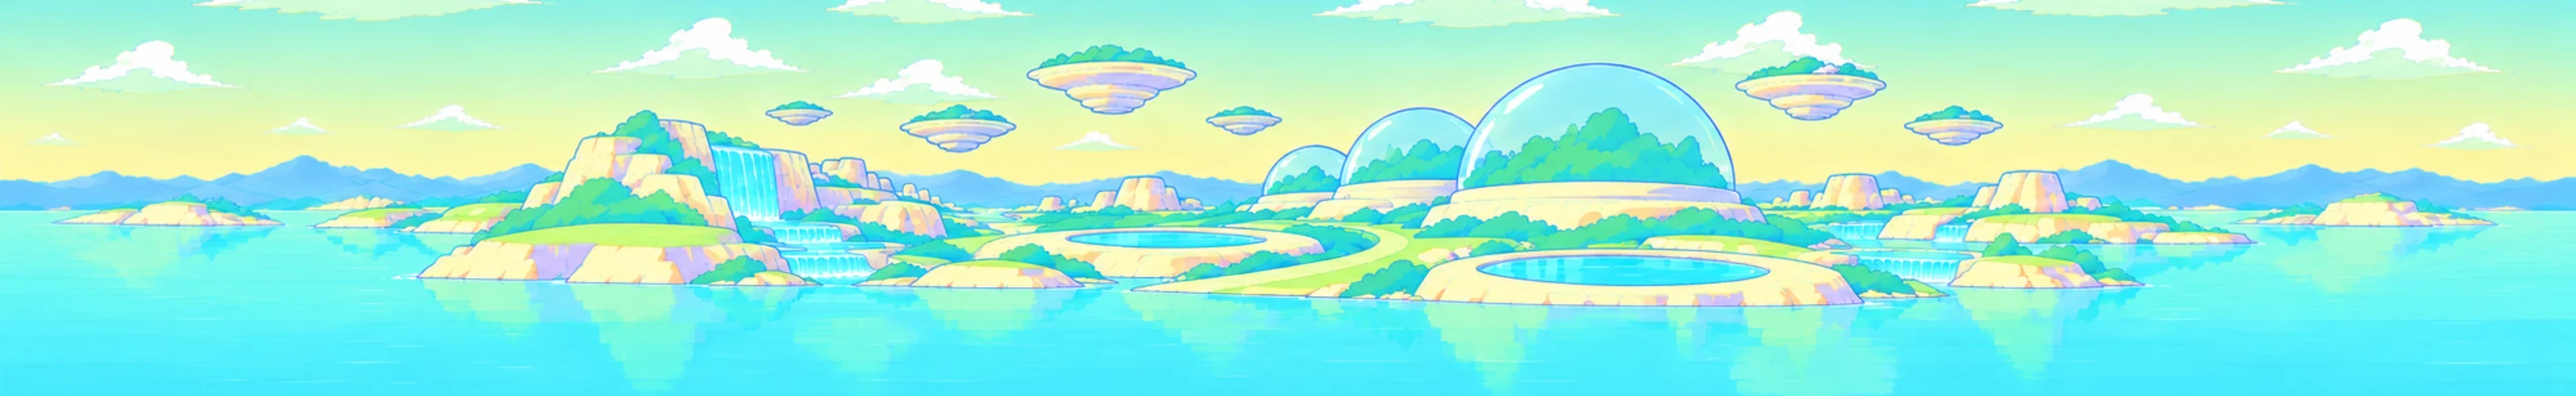
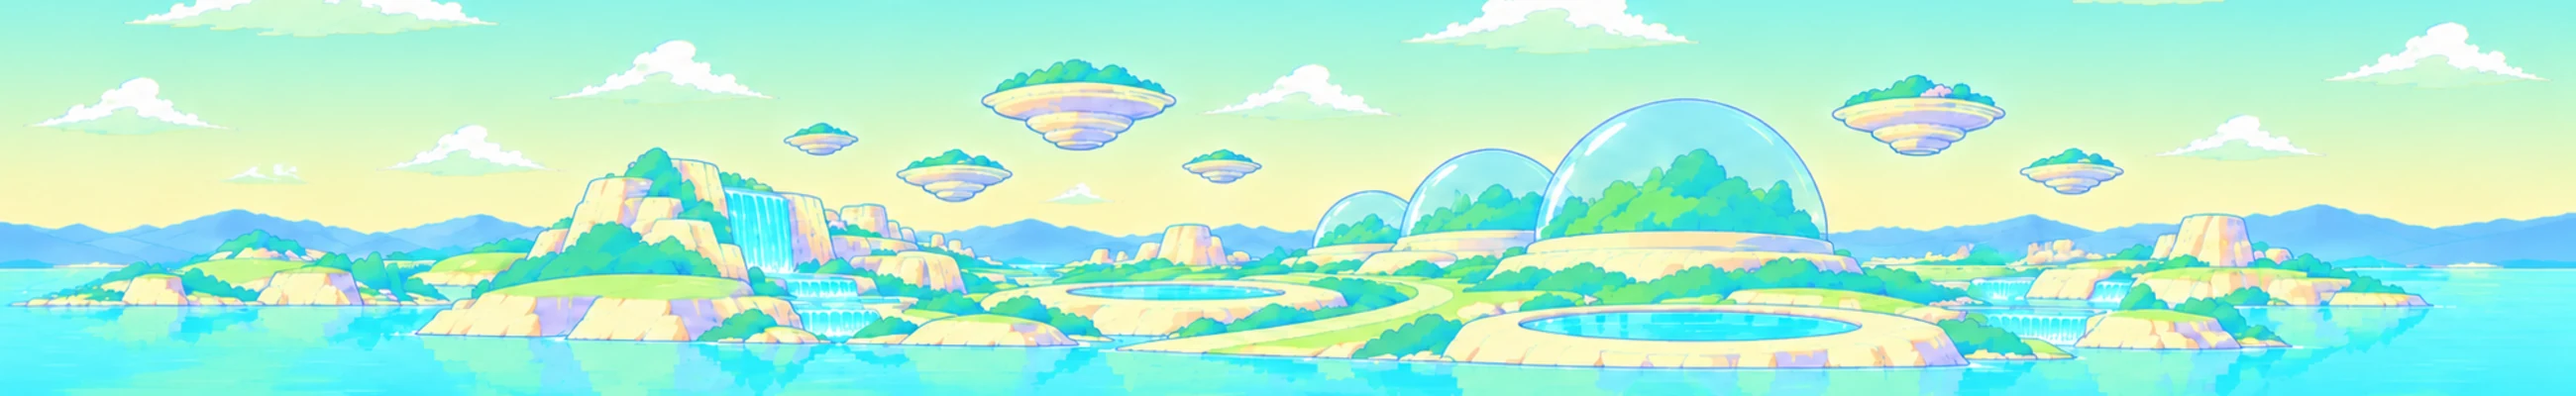
LOCAL: recruit hero = sky-wide 2600x400 art; remove the temporary zoom shift

diff --git a/site/company.html b/site/company.html
@@ -19,7 +19,7 @@
 <link rel="preconnect" href="https://fonts.googleapis.com">
 <link rel="preconnect" href="https://fonts.gstatic.com" crossorigin>
 <link rel="stylesheet" href="https://fonts.googleapis.com/css2?family=Noto+Sans+JP:wght@400;500&amp;family=Noto+Serif+JP:wght@500;600&amp;display=swap">
-<link rel="stylesheet" href="styles.css?v=1792828763">
+<link rel="stylesheet" href="styles.css?v=1792829221">
 <script>document.documentElement.classList.add('js')</script>
 
 </head>
@@ -33,7 +33,7 @@
 </div>
 </header>
 <section class="page-hero">
-<div class="hero-bg"><img src="images/hero65_company.webp?v=16" alt="" width="2600" height="400" style="object-position:50% 50%;--mpos:60% 50%"></div>
+<div class="hero-bg"><img src="images/hero65_company.webp?v=17" alt="" width="2600" height="400" style="object-position:50% 50%;--mpos:60% 50%"></div>
 <div class="container" data-en="COMPANY"><p class="eyebrow">COMPANY</p><h1>法人概要</h1><nav class="breadcrumb" aria-label="パンくず"><a href="index.html">TOP</a> &gt; COMPANY</nav></div>
 </section>
 <main id="main"><section class="section"><div class="container split"><div class="split-head"><div class="section-head reveal"><p class="eyebrow">ABOUT US</p><h2 class="section-title">私たちについて</h2></div></div><div class="about-grid"><article class="about-card reveal"><h3>CELLACTは、再生医療の可能性を追求し、安全で質の高い医療をお届けします。</h3><p>CELLACTは、幹細胞療法や免疫細胞療法などの再生医療に取り組んでいます。日本では、2014年に再生医療等安全性確保法が施行され、厳格な規制のもとでの治療が求められています。私たちはこの法律を遵守し、安全かつ高度な再生医療の実践に努めています。完全予約制のプライベートな環境で、国内外の患者様一人ひとりに向き合っています。</p></article><article class="about-card reveal"><h3>細胞の品質と安全管理を大切に、一人ひとりに最適な再生医療を。</h3><p>再生医療において、治療に用いる細胞の品質と、それを支える技術の信頼性は極めて重要です。徹底した品質管理のもとで培養された細胞を用いることで、患者様一人ひとりに安心して治療を受けていただける環境を提供しています。再生医療に精通した医師が協力しながら診療を行い、患者様それぞれに最適な治療プランを設計します。</p></article></div></div></section>
@@ -74,6 +74,6 @@
 <div class="copy"><span>&copy; 2026 一般社団法人 CELLACT. All rights reserved.</span></div>
 </div>
 </footer>
-<script src="script.js?v=1792828763" defer></script>
+<script src="script.js?v=1792829221" defer></script>
 </body>
 </html>

diff --git a/site/news-archive.html b/site/news-archive.html
@@ -19,7 +19,7 @@
 <link rel="preconnect" href="https://fonts.googleapis.com">
 <link rel="preconnect" href="https://fonts.gstatic.com" crossorigin>
 <link rel="stylesheet" href="https://fonts.googleapis.com/css2?family=Noto+Sans+JP:wght@400;500&amp;family=Noto+Serif+JP:wght@500;600&amp;display=swap">
-<link rel="stylesheet" href="styles.css?v=1792828763">
+<link rel="stylesheet" href="styles.css?v=1792829221">
 <script>document.documentElement.classList.add('js')</script>
 
 </head>
@@ -33,7 +33,7 @@
 </div>
 </header>
 <section class="page-hero">
-<div class="hero-bg"><img src="images/hero65_news.webp?v=16" alt="" width="2600" height="400" style="object-position:50% 50%;--mpos:70% 50%"></div>
+<div class="hero-bg"><img src="images/hero65_news.webp?v=17" alt="" width="2600" height="400" style="object-position:50% 50%;--mpos:70% 50%"></div>
 <div class="container" data-en="NEWS"><p class="eyebrow">NEWS</p><h1>お知らせ</h1><nav class="breadcrumb" aria-label="パンくず"><a href="index.html">TOP</a> &gt; NEWS</nav></div>
 </section>
 <main id="main"><section class="section"><div class="container-narrow"><div class="section-head reveal"><p class="eyebrow">NEWS ARCHIVE</p><h2 class="section-title">お知らせ一覧</h2></div><ul class="news-list reveal"><li><a href="news-20270110-recruit.html"><time datetime="2027-01-10">2027.01.10</time><span class="tag warm">採用情報</span><span class="ttl">医療スタッフ募集のお知らせ</span><span class="chev" aria-hidden="true">→</span></a></li><li><a href="news-20270101-rename.html"><time datetime="2027-01-01">2027.01.01</time><span class="tag">クリニック情報</span><span class="ttl">N2クリニック銀座本院は「セルアクト クリニック銀座（CELLACT CLINIC GINZA）」へ名称変更しました。</span><span class="chev" aria-hidden="true">→</span></a></li><li><a href="news-20270101-renewal.html"><time datetime="2027-01-01">2027.01.01</time><span class="tag">お知らせ</span><span class="ttl">公式サイトをリニューアルしました。</span><span class="chev" aria-hidden="true">→</span></a></li></ul></div></section></main><footer class="site-footer">
@@ -49,6 +49,6 @@
 <div class="copy"><span>&copy; 2026 一般社団法人 CELLACT. All rights reserved.</span></div>
 </div>
 </footer>
-<script src="script.js?v=1792828763" defer></script>
+<script src="script.js?v=1792829221" defer></script>
 </body>
 </html>

diff --git a/site/business.html b/site/business.html
@@ -19,7 +19,7 @@
 <link rel="preconnect" href="https://fonts.googleapis.com">
 <link rel="preconnect" href="https://fonts.gstatic.com" crossorigin>
 <link rel="stylesheet" href="https://fonts.googleapis.com/css2?family=Noto+Sans+JP:wght@400;500&amp;family=Noto+Serif+JP:wght@500;600&amp;display=swap">
-<link rel="stylesheet" href="styles.css?v=1792828763">
+<link rel="stylesheet" href="styles.css?v=1792829221">
 <script>document.documentElement.classList.add('js')</script>
 
 </head>
@@ -33,7 +33,7 @@
 </div>
 </header>
 <section class="page-hero">
-<div class="hero-bg"><img src="images/hero65_business.webp?v=16" alt="" width="2600" height="400" style="object-position:50% 50%;--mpos:55% 50%"></div>
+<div class="hero-bg"><img src="images/hero65_business.webp?v=17" alt="" width="2600" height="400" style="object-position:50% 50%;--mpos:55% 50%"></div>
 <div class="container" data-en="BUSINESS"><p class="eyebrow">BUSINESS</p><h1>事業内容</h1><nav class="breadcrumb" aria-label="パンくず"><a href="index.html">TOP</a> &gt; BUSINESS</nav></div>
 </section>
 <main id="main"><section class="section"><div class="container"><div class="section-head reveal"><p class="eyebrow">FIELDS</p><h2 class="section-title">取り組んでいる再生医療</h2><p class="lead">細胞の力を活かした、3つの領域で医療を提供しています。</p></div><article class="service-detail reveal" id="stem"><div class="sd-media"><img src="images/cellact_stem.webp?v=4" alt="" loading="lazy" width="1500" height="857" data-pan></div>
@@ -70,6 +70,6 @@
 <div class="copy"><span>&copy; 2026 一般社団法人 CELLACT. All rights reserved.</span></div>
 </div>
 </footer>
-<script src="script.js?v=1792828763" defer></script>
+<script src="script.js?v=1792829221" defer></script>
 </body>
 </html>

diff --git a/site/recruit.html b/site/recruit.html
@@ -19,7 +19,7 @@
 <link rel="preconnect" href="https://fonts.googleapis.com">
 <link rel="preconnect" href="https://fonts.gstatic.com" crossorigin>
 <link rel="stylesheet" href="https://fonts.googleapis.com/css2?family=Noto+Sans+JP:wght@400;500&amp;family=Noto+Serif+JP:wght@500;600&amp;display=swap">
-<link rel="stylesheet" href="styles.css?v=1792828763">
+<link rel="stylesheet" href="styles.css?v=1792829221">
 <script>document.documentElement.classList.add('js')</script>
 
 </head>
@@ -33,7 +33,7 @@
 </div>
 </header>
 <section class="page-hero">
-<div class="hero-bg"><img src="images/hero65_recruit.webp?v=16" alt="" width="2600" height="400" style="object-position:50% 6%;--mpos:45% 50%;--zoom:1.18"></div>
+<div class="hero-bg"><img src="images/hero65_recruit.webp?v=17" alt="" width="2600" height="400" style="object-position:50% 50%;--mpos:40% 50%"></div>
 <div class="container" data-en="RECRUIT"><p class="eyebrow">RECRUIT</p><h1>採用情報</h1><nav class="breadcrumb" aria-label="パンくず"><a href="index.html">TOP</a> &gt; RECRUIT</nav></div>
 </section>
 <main id="main"><section class="section"><div class="container split"><div class="split-head"><div class="section-head reveal"><p class="eyebrow">MESSAGE</p><h2 class="section-title">私たちの仕事は未来を再生すること。</h2></div></div>
@@ -55,6 +55,6 @@
 <div class="copy"><span>&copy; 2026 一般社団法人 CELLACT. All rights reserved.</span></div>
 </div>
 </footer>
-<script src="script.js?v=1792828763" defer></script>
+<script src="script.js?v=1792829221" defer></script>
 </body>
 </html>

diff --git a/site/news-20270101-rename.html b/site/news-20270101-rename.html
@@ -19,7 +19,7 @@
 <link rel="preconnect" href="https://fonts.googleapis.com">
 <link rel="preconnect" href="https://fonts.gstatic.com" crossorigin>
 <link rel="stylesheet" href="https://fonts.googleapis.com/css2?family=Noto+Sans+JP:wght@400;500&amp;family=Noto+Serif+JP:wght@500;600&amp;display=swap">
-<link rel="stylesheet" href="styles.css?v=1792828763">
+<link rel="stylesheet" href="styles.css?v=1792829221">
 <script>document.documentElement.classList.add('js')</script>
 
 </head>
@@ -33,7 +33,7 @@
 </div>
 </header>
 <section class="page-hero">
-<div class="hero-bg"><img src="images/hero65_news.webp?v=16" alt="" width="2600" height="400" style="object-position:50% 50%;--mpos:70% 50%"></div>
+<div class="hero-bg"><img src="images/hero65_news.webp?v=17" alt="" width="2600" height="400" style="object-position:50% 50%;--mpos:70% 50%"></div>
 <div class="container" data-en="NEWS"><p class="eyebrow">NEWS</p><h1>お知らせ</h1><nav class="breadcrumb" aria-label="パンくず"><a href="index.html">TOP</a> &gt; <a href="news-archive.html">NEWS</a> &gt; N2クリニック銀座本院は「セルアクト クリニック銀座（CELLACT CLINIC GINZA）」へ名称変更しました。</nav></div>
 </section>
 <main id="main"><section class="section"><div class="container-narrow"><article class="article reveal">
@@ -58,6 +58,6 @@
 <div class="copy"><span>&copy; 2026 一般社団法人 CELLACT. All rights reserved.</span></div>
 </div>
 </footer>
-<script src="script.js?v=1792828763" defer></script>
+<script src="script.js?v=1792829221" defer></script>
 </body>
 </html>

diff --git a/site/news-20270101-renewal.html b/site/news-20270101-renewal.html
@@ -19,7 +19,7 @@
 <link rel="preconnect" href="https://fonts.googleapis.com">
 <link rel="preconnect" href="https://fonts.gstatic.com" crossorigin>
 <link rel="stylesheet" href="https://fonts.googleapis.com/css2?family=Noto+Sans+JP:wght@400;500&amp;family=Noto+Serif+JP:wght@500;600&amp;display=swap">
-<link rel="stylesheet" href="styles.css?v=1792828763">
+<link rel="stylesheet" href="styles.css?v=1792829221">
 <script>document.documentElement.classList.add('js')</script>
 
 </head>
@@ -33,7 +33,7 @@
 </div>
 </header>
 <section class="page-hero">
-<div class="hero-bg"><img src="images/hero65_news.webp?v=16" alt="" width="2600" height="400" style="object-position:50% 50%;--mpos:70% 50%"></div>
+<div class="hero-bg"><img src="images/hero65_news.webp?v=17" alt="" width="2600" height="400" style="object-position:50% 50%;--mpos:70% 50%"></div>
 <div class="container" data-en="NEWS"><p class="eyebrow">NEWS</p><h1>お知らせ</h1><nav class="breadcrumb" aria-label="パンくず"><a href="index.html">TOP</a> &gt; <a href="news-archive.html">NEWS</a> &gt; 公式サイトをリニューアルしました。</nav></div>
 </section>
 <main id="main"><section class="section"><div class="container-narrow"><article class="article reveal">
@@ -57,6 +57,6 @@
 <div class="copy"><span>&copy; 2026 一般社団法人 CELLACT. All rights reserved.</span></div>
 </div>
 </footer>
-<script src="script.js?v=1792828763" defer></script>
+<script src="script.js?v=1792829221" defer></script>
 </body>
 </html>

diff --git a/site/news-20270110-recruit.html b/site/news-20270110-recruit.html
@@ -19,7 +19,7 @@
 <link rel="preconnect" href="https://fonts.googleapis.com">
 <link rel="preconnect" href="https://fonts.gstatic.com" crossorigin>
 <link rel="stylesheet" href="https://fonts.googleapis.com/css2?family=Noto+Sans+JP:wght@400;500&amp;family=Noto+Serif+JP:wght@500;600&amp;display=swap">
-<link rel="stylesheet" href="styles.css?v=1792828763">
+<link rel="stylesheet" href="styles.css?v=1792829221">
 <script>document.documentElement.classList.add('js')</script>
 
 </head>
@@ -33,7 +33,7 @@
 </div>
 </header>
 <section class="page-hero">
-<div class="hero-bg"><img src="images/hero65_news.webp?v=16" alt="" width="2600" height="400" style="object-position:50% 50%;--mpos:70% 50%"></div>
+<div class="hero-bg"><img src="images/hero65_news.webp?v=17" alt="" width="2600" height="400" style="object-position:50% 50%;--mpos:70% 50%"></div>
 <div class="container" data-en="NEWS"><p class="eyebrow">NEWS</p><h1>お知らせ</h1><nav class="breadcrumb" aria-label="パンくず"><a href="index.html">TOP</a> &gt; <a href="news-archive.html">NEWS</a> &gt; 医療スタッフ募集のお知らせ</nav></div>
 </section>
 <main id="main"><section class="section"><div class="container-narrow"><article class="article reveal">
@@ -57,6 +57,6 @@
 <div class="copy"><span>&copy; 2026 一般社団法人 CELLACT. All rights reserved.</span></div>
 </div>
 </footer>
-<script src="script.js?v=1792828763" defer></script>
+<script src="script.js?v=1792829221" defer></script>
 </body>
 </html>

diff --git a/site/contact_thanks.html b/site/contact_thanks.html
@@ -19,7 +19,7 @@
 <link rel="preconnect" href="https://fonts.googleapis.com">
 <link rel="preconnect" href="https://fonts.gstatic.com" crossorigin>
 <link rel="stylesheet" href="https://fonts.googleapis.com/css2?family=Noto+Sans+JP:wght@400;500&amp;family=Noto+Serif+JP:wght@500;600&amp;display=swap">
-<link rel="stylesheet" href="styles.css?v=1792828763">
+<link rel="stylesheet" href="styles.css?v=1792829221">
 <script>document.documentElement.classList.add('js')</script>
 
 </head>
@@ -33,7 +33,7 @@
 </div>
 </header>
 <section class="page-hero">
-<div class="hero-bg"><img src="images/hero65_contact.webp?v=16" alt="" width="2600" height="400" style="object-position:50% 50%;--mpos:52% 50%"></div>
+<div class="hero-bg"><img src="images/hero65_contact.webp?v=17" alt="" width="2600" height="400" style="object-position:50% 50%;--mpos:52% 50%"></div>
 <div class="container" data-en="CONTACT"><p class="eyebrow">CONTACT</p><h1>お問い合わせ</h1><nav class="breadcrumb" aria-label="パンくず"><a href="index.html">TOP</a> &gt; <a href="contact.php">CONTACT</a> &gt; 完了</nav></div>
 </section>
 <main id="main"><section class="section tint"><div class="container-narrow">
@@ -54,6 +54,6 @@
 <div class="copy"><span>&copy; 2026 一般社団法人 CELLACT. All rights reserved.</span></div>
 </div>
 </footer>
-<script src="script.js?v=1792828763" defer></script>
+<script src="script.js?v=1792829221" defer></script>
 </body>
 </html>

diff --git a/site/privacy.html b/site/privacy.html
@@ -19,7 +19,7 @@
 <link rel="preconnect" href="https://fonts.googleapis.com">
 <link rel="preconnect" href="https://fonts.gstatic.com" crossorigin>
 <link rel="stylesheet" href="https://fonts.googleapis.com/css2?family=Noto+Sans+JP:wght@400;500&amp;family=Noto+Serif+JP:wght@500;600&amp;display=swap">
-<link rel="stylesheet" href="styles.css?v=1792828763">
+<link rel="stylesheet" href="styles.css?v=1792829221">
 <script>document.documentElement.classList.add('js')</script>
 
 </head>
@@ -33,7 +33,7 @@
 </div>
 </header>
 <section class="page-hero">
-<div class="hero-bg"><img src="images/hero65_privacy.webp?v=16" alt="" width="2600" height="400" style="object-position:50% 50%;--mpos:40% 50%"></div>
+<div class="hero-bg"><img src="images/hero65_privacy.webp?v=17" alt="" width="2600" height="400" style="object-position:50% 50%;--mpos:40% 50%"></div>
 <div class="container" data-en="PRIVACY"><p class="eyebrow">PRIVACY</p><h1>プライバシーポリシー</h1><nav class="breadcrumb" aria-label="パンくず"><a href="index.html">TOP</a> &gt; プライバシーポリシー</nav></div>
 </section>
 <main id="main"><section class="section"><div class="container-narrow prose">
@@ -71,6 +71,6 @@
 <div class="copy"><span>&copy; 2026 一般社団法人 CELLACT. All rights reserved.</span></div>
 </div>
 </footer>
-<script src="script.js?v=1792828763" defer></script>
+<script src="script.js?v=1792829221" defer></script>
 </body>
 </html>

diff --git a/site/index.html b/site/index.html
@@ -19,7 +19,7 @@
 <link rel="preconnect" href="https://fonts.googleapis.com">
 <link rel="preconnect" href="https://fonts.gstatic.com" crossorigin>
 <link rel="stylesheet" href="https://fonts.googleapis.com/css2?family=Noto+Sans+JP:wght@400;500&amp;family=Noto+Serif+JP:wght@500;600&amp;display=swap">
-<link rel="stylesheet" href="styles.css?v=1792828763">
+<link rel="stylesheet" href="styles.css?v=1792829221">
 <script>document.documentElement.classList.add('js')</script>
 <script type="application/ld+json">{"@context":"https://schema.org","@type":"Organization","name":"一般社団法人 CELLACT","url":"https://n2cellact.or.jp/","logo":"https://n2cellact.or.jp/images/cellact_logo.png?v=151","telephone":"+81-3-3289-0202","email":"info@cellact.org","address":{"@type":"PostalAddress","postalCode":"104-0061","addressRegion":"東京都","addressLocality":"中央区","streetAddress":"銀座6-6-5 HULIC & New GINZA NAMIKI6 11F","addressCountry":"JP"}}</script>
 </head>
@@ -96,6 +96,6 @@
 <div class="copy"><span>&copy; 2026 一般社団法人 CELLACT. All rights reserved.</span></div>
 </div>
 </footer>
-<script src="script.js?v=1792828763" defer></script>
+<script src="script.js?v=1792829221" defer></script>
 </body>
 </html>

diff --git a/site/404.html b/site/404.html
@@ -19,7 +19,7 @@
 <link rel="preconnect" href="https://fonts.googleapis.com">
 <link rel="preconnect" href="https://fonts.gstatic.com" crossorigin>
 <link rel="stylesheet" href="https://fonts.googleapis.com/css2?family=Noto+Sans+JP:wght@400;500&amp;family=Noto+Serif+JP:wght@500;600&amp;display=swap">
-<link rel="stylesheet" href="styles.css?v=1792828763">
+<link rel="stylesheet" href="styles.css?v=1792829221">
 <script>document.documentElement.classList.add('js')</script>
 
 </head>
@@ -47,6 +47,6 @@
 <div class="copy"><span>&copy; 2026 一般社団法人 CELLACT. All rights reserved.</span></div>
 </div>
 </footer>
-<script src="script.js?v=1792828763" defer></script>
+<script src="script.js?v=1792829221" defer></script>
 </body>
 </html>

diff --git a/tools/build.py b/tools/build.py
@@ -168,7 +168,7 @@ def page_hero(en, title, bg, crumbs, pos='50% 50%', flip=False, tall=False, mpos
     bc = ' &gt; '.join(f'<a href="{h}">{l}</a>' for h, l in crumbs[:-1])
     bc = (bc + ' &gt; ' if bc else '') + esc(crumbs[-1][1])
     return f'''<section class="page-hero{" tall" if tall else ""}{" flip" if flip else ""}">
-<div class="hero-bg"><img src="images/{bg}?v=16" alt="" width="2600" height="400" style="object-position:{pos};--mpos:{mpos}{(";--zoom:" + str(zoom)) if zoom else ""}"></div>
+<div class="hero-bg"><img src="images/{bg}?v=17" alt="" width="2600" height="400" style="object-position:{pos};--mpos:{mpos}{(";--zoom:" + str(zoom)) if zoom else ""}"></div>
 <div class="container" data-en="{en}"><p class="eyebrow">{en}</p><h1>{title}</h1><nav class="breadcrumb" aria-label="パンくず">{bc}</nav></div>
 </section>
 '''
@@ -315,7 +315,7 @@ def build_recruit():
     for t, rows in pos:
         cards += f'<article class="position reveal"><h3>{t}</h3><dl>' + ''.join(f'<div><dt>{k}</dt><dd>{v}</dd></div>' for k, v in rows) + '</dl></article>'
     s = head('RECRUIT', '再生医療の現場で、医療の未来を共に築きませんか。看護師・受付スタッフの募集要項。', 'recruit.html', og_img='images/hero_recruit.webp')
-    s += header('recruit.html') + page_hero('RECRUIT', '採用情報', 'hero65_recruit.webp', [('index.html', 'TOP'), ('recruit.html', 'RECRUIT')], pos='50% 6%', mpos='45% 50%', zoom=1.18)
+    s += header('recruit.html') + page_hero('RECRUIT', '採用情報', 'hero65_recruit.webp', [('index.html', 'TOP'), ('recruit.html', 'RECRUIT')], pos='50% 50%', mpos='40% 50%')
     s += f'''<main id="main"><section class="section"><div class="container split"><div class="split-head">{section_head('MESSAGE', '私たちの仕事は未来を再生すること。')}</div>
 <div class="reveal message"><p>再生医療の現場で、医療の未来を共に築きませんか？<br>私たちは、幹細胞療法や免疫細胞療法による再生医療のほか、幹細胞培養上清療法などを提供しています。</p>
 <p>未来の医療である「再生医療」の現場に、あなたのスキルと情熱を活かしませんか？<br>私たちは患者様の生活を再生し、希望を届けるために共に働ける仲間を探しています。</p>
